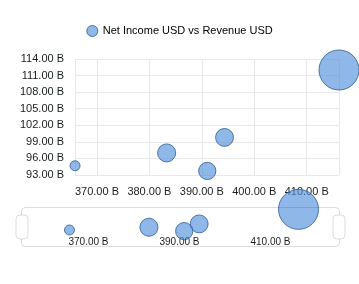
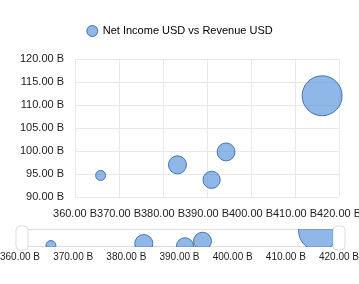
fix(charts): verify and publish corrected FMP bubble sample

diff --git a/artifacts/reviewed/chart-xy/bubble-correction.md b/artifacts/reviewed/chart-xy/bubble-correction.md
@@ -1,0 +1,35 @@
+# Bubble range and miniature correction
+
+The rebuilt application passes the reported bubble spread and miniature-clipping checks. Workspace `72bdc113b687f39558ac5284395b4b1252d651c0` preserves the financial observations and EPS diameter mapping. Exact axis-label density remains a separate visual difference shown to the owner.
+
+## Finding and change
+
+The earlier navigator pinned automatic X bounds to raw observation extrema, and zoom/reset pinned Y bounds similarly. ECharts scatter clipping checked marker centers but did not clip marker pixels, allowing the miniature's bubbles to overflow its track.
+
+Original Workspace `38dffc33389aca0e4a87e0e88d42f7067aa220df` was exercised with the same captured AAPL FY2021-FY2025 FMP annual statements. Its main ranges were X 360-420 billion USD and Y 90-120 billion USD; its miniature clipped bubbles within an 18-pixel track. Separate original light-theme capture at a 381×284 canvas confirmed the Y range and clipping.
+
+The correction reuses the existing original-compatible numeric rounding policy, preserves explicit user bounds separately from computed display bounds, retains navigation's four-observation guard, and applies an actual rectangular clip to XY miniature series. Main bubble sizes remain the saved 10-40 pixel linear EPS mapping. No provider request, financial rescaling or widget-state migration was needed.
+
+## Source verification
+
+- Independent Astra review approved the bounded source changes, conditional on packaged application verification.
+- 36 independent focused tests passed: miniature clipping/rendering/ranges, shared navigator and XY application integration. Assertions cover actual ECharts SVG geometry, explicit bounds, reset, empty-domain recovery and unaffected series.
+- Strict clipping and FMP browser-test typing passed. Expanded range typing reports only the existing `typography.ts:1` unused `@ts-expect-error`; no changed-file diagnostics.
+- Combined explicit-scope complexity gate passed with no errors or violations. All five changed production files satisfy 400 physical lines, 300 logical units and 50 units per function.
+- Staged whitespace checks passed; the source commit is pushed.
+
+The first image (`8c396e72`, source `e237ee0`) passed displayed main bounds but failed miniature height: label containment reduced the requested 18-pixel track to 4.5 pixels. A diagnostic run confirmed the real clipping rectangle. The follow-up disables outer-bound label containment for this miniature, using the existing histogram layout option. Independent review and nine focused tests passed, including an actual two-grid engine regression proving 18-pixel miniature height and unchanged main geometry.
+
+## Packaged application
+
+Local Dagger image `sha256:02a6530a5a0a41a9450ea1acf19f3211c2a43b07a88e55f21c7972e252785ae4` runs source `72bdc11` without an overlay, at isolated loopback port 55539.
+
+- Captured FMP journey: 1 passed in 30.5 seconds, zero retries/skips. Displayed bounds are X 360-420B and Y 90-120B. Public canvas calls establish an active 18-pixel clipping rectangle while bubble radii cross its edges. Raw coordinates, EPS diameters and units remain checked through zoom/reset, theme, refresh, save/reopen and export; exported pixels include the miniature.
+- Scatter regression: 1 passed in 24.7 seconds, zero retries/skips. Shared numeric X, signed Y series, theme, refresh and reopen/export remain covered.
+- Commands: `browser.sh final xy-fmp.spec.ts` and `browser.sh scatter xy-charts.spec.ts --grep 'Scatter shares'` under this record's ignored evidence directory. Both exit 0, one isolated browser worker.
+- Parent inspected the final exported PNG and opened it beside the original in qView. The replacement retains denser tick labels and a different legend state from the reference; this is not a claim of exact visual parity.
+- Independent Astra review accepted the bounded spread/miniature correction against the final result JSON and PNG. It retained the axis-label differences and slight main-marker edge overlap as open visual work.
+
+The corrected chart sample is the actual application export, not a redrawn illustration. Hosted publication remains pending.
+
+Raw source logs, original reference captures and command scripts remain in ignored `artifacts/chart-xy/spread-review/`. Original captures passed with one isolated browser worker and zero retries. Public evidence retains the relevant chart samples and this concise record.

diff --git a/.kiro/specs/analyst-workspace/xy-chart-milestone.md b/.kiro/specs/analyst-workspace/xy-chart-milestone.md
@@ -4,9 +4,13 @@ Restore scatter and bubble in the ordinary Table/File journey, preserving the ex
 
 ## Actual FMP chart sample
 
+**Spread and miniature correction verified (2026-10-20):** the updated sample uses rounded ranges and an 18-pixel miniature with actual pixel clipping. The same FMP observations and EPS sizes pass through save/reopen and export. Denser/cropped axis labels and slight main-marker edge overlap remain visual differences; full visual parity is not claimed.
+
 ![AAPL annual bubble chart](../../../artifacts/reviewed/chart-samples/aapl-annual-bubble.png)
 
-AAPL FY2021-FY2025 FMP annual statements: X revenue (USD), Y net income (USD), bubble diameter linear in EPS (USD/share). Five unchanged observations, no aggregation; B formats billions. Accepted Workspace `e64ce8c`.
+AAPL FY2021-FY2025 FMP annual statements: X revenue (USD), Y net income (USD), bubble diameter linear in EPS (USD/share), saved minimum 10 / maximum 40 pixels. Five unchanged observations, no aggregation; B formats billions. Verified Workspace `72bdc11`.
+
+See the [correction evidence](../../../artifacts/reviewed/chart-xy/bubble-correction.md) and [original reference](../../../artifacts/reviewed/chart-xy/bubble-original.png).
 
 [Application and release evidence](../../../artifacts/reviewed/chart-xy/verification.md); [Image and source provenance](../../../artifacts/reviewed/chart-samples/provenance.json). Captured FMP data through File Table; live data API routing is not established.
 
@@ -23,6 +27,10 @@ Verify the application with captured FMP annual data: revenue as X (USD), net in
 - [x] X3. Connect pairing and XY field roles to the existing editor/session through the [reviewed production join](xy-production-join.md). Preserve option paths and inactive settings. Source accepted at `ea740ce`, with independently reviewed empty-selection recovery at `e64ce8c`; packaged-image behavior remains under X4.
 - [x] X4. Complete that same cohesive join: family routing, caller defaults, appearance, navigator and refresh behavior. Preserve original empty geometry for one-sided bounds that exclude all observations; the inactive mapper's safety diagnostic is not final parity. Verify captured-FMP application journeys and prior-family regressions.
 - [x] X5. Independent feature review, breadth and README/docs checklist reconciliation, reviewed evidence sync, commits/push and one tagged alpha publication with anonymous pull verification.
+- [ ] X6. Correct the reported bubble spread: compare original automatic bounds, preserve explicit user bounds and EPS diameter mapping, and clip miniature marker geometry to its track. Verify the same captured FMP observations, navigation/reset, resize and export; independently review, replace the sample and publish one corrected image milestone. Production changes retain the existing complexity caps.
+- [ ] X7. Resolve remaining axis-label density/cropping and slight main-marker edge overlap against the original appearance; owner comparison requested in qView.
+
+X1-X5 record the earlier delivered scope. X6 source and packaged-application checks passed at `72bdc11`; hosted publication is pending. The earlier coordinate and diameter checks did not establish painted containment. X7 stays separate and open.
 
 Task X1 is independent of the unresolved geometry questions in [source research](xy-chart-research.md). X2 and X3 may run in parallel only after an independently reviewed interface and exclusive file ownership are recorded. Shared production integration and commits remain serialized.
 

diff --git a/README.md b/README.md
@@ -19,7 +19,7 @@ Snapshot: 2026-10-20. Follow the CI link for live run status; a green check does
 | Prototype | Full Workspace, installed data API, two-service Compose, local image builds | Candidate login/dashboard and routing smoke; assembled Compose acceptance |
 | CI/CD | Hosted checks and both Dagger builds passed; public images and tagged alpha published | Later stable release pinning and broader runtime acceptance |
 | Data | Adapted FMP profile/income routes and FRED series catalog; real-data snapshot dashboard | Broader live FMP coverage, Yahoo adapter, named discovery and consistent provider contracts |
-| Visuals | Selected ECharts table-chart journeys, including accepted combination, scatter, bubble and histogram charts with captured FMP data; existing Plotly; Perspective runtime foundation | Perspective dashboard integration, remaining renderer/table functions and shared theme |
+| Visuals | Selected ECharts table-chart journeys with captured FMP data; verified bubble-range and miniature correction; existing Plotly; Perspective runtime foundation | Bubble axis-label polish; Perspective dashboard integration, remaining renderer/table functions and shared theme |
 | Analyst workflow | Existing dashboard editor and widget foundations | Familiar commands, linked instruments/time, reusable research views and persistence acceptance |
 | Extensions | Separate AI, Excel and custom-source specs | Implementation and end-to-end acceptance; Quant plugins later |
 
@@ -33,6 +33,8 @@ See the [ECharts checklist](docs/echarts-status.md) for remaining chart families
 
 Published: [scatter and bubble](.kiro/specs/analyst-workspace/xy-chart-milestone.md).
 
+- [x] Correct the reported bubble spacing and miniature overflow, then replace its FMP sample after verification.
+- [ ] Publish the corrected image milestone; remaining axis-label polish stays open.
 - [x] Implement and review the inactive X/Y/size field-assignment contract.
 - [x] Implement and review the inactive numeric renderer, including actual ECharts geometry checks.
 - [x] Connect and source-review rendering, editor controls and saved XY settings.

diff --git a/docs/echarts-status.md b/docs/echarts-status.md
@@ -8,7 +8,7 @@ Checked items below describe the implemented and reviewed scope, not every featu
 
 - [x] Render Histogram in the ordinary Table/File journey with captured-FMP bin/count acceptance, editor controls, navigation, save/reopen and export. See the [published milestone](../.kiro/specs/analyst-workspace/histogram-milestone.md).
 
-- [x] Render scatter and bubble in the ordinary Table/File journey, including numeric assignments, pairing, appearance, navigation, saved state and captured-FMP acceptance. See the [published milestone](../.kiro/specs/analyst-workspace/xy-chart-milestone.md).
+- [x] Repair the reported bubble spread and miniature overflow in a packaged image with captured FMP data; see [X6 evidence](../artifacts/reviewed/chart-xy/bubble-correction.md). Remaining axis-label polish stays open.
 
 - [x] Render Column & Line, Area & Column and Custom Combination with per-series axes, saved styling, navigator/theme/refresh retention and captured-FMP application acceptance. See the [accepted milestone](../.kiro/specs/analyst-workspace/chart-port-milestone.md).
 
@@ -51,6 +51,9 @@ These are completion criteria for the remaining port. Earlier checked source/fun
 
 ## Scatter/bubble progress
 
+- [x] Repair bubble endpoint spacing and miniature clipping against the original application; replace the real-FMP sample after verification.
+- [ ] Publish the corrected image milestone.
+- [ ] Resolve remaining axis-label density/cropping and slight main-marker edge overlap after the owner comparison.
 - [x] Resolve paired/unpaired X/Y/size identities with source-compatible ordering and incomplete-group behavior; independently reviewed focused tests and complexity checks passed.
 - [x] Implement the inactive numeric mapper, with independent review and actual ECharts geometry/tooltip checks.
 - [x] Connect and source-review the existing editor/application, including original empty-domain behavior for excluded one-sided bounds.
